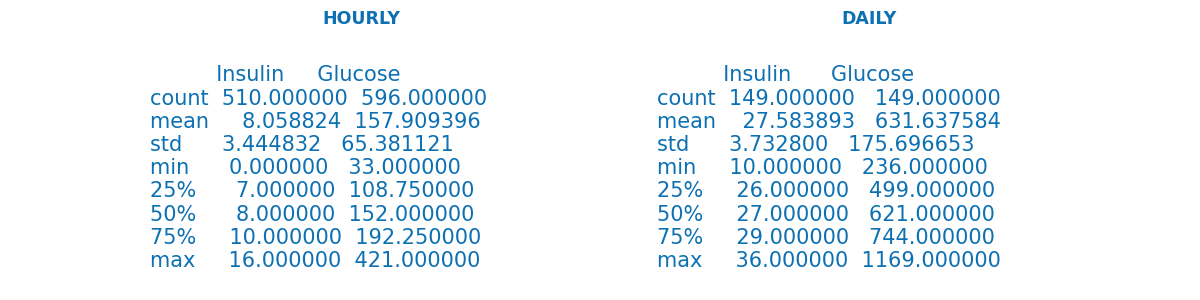
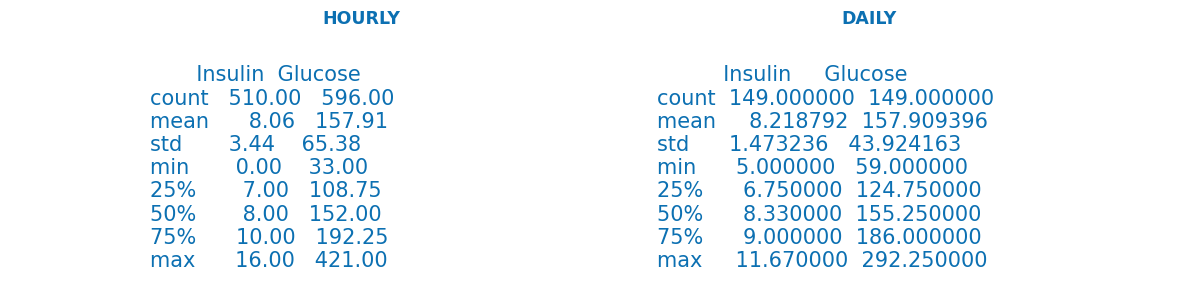
Rerun data distribution for both the datasets

diff --git a/forecasting/data_distribution_dataset2.py b/forecasting/data_distribution_dataset2.py
@@ -5,92 +5,101 @@ from ts_functions import plot_series, HEIGHT
 import sys
 
 
-def data_distribution(filename, dataset, index_col, na_values, class_column):
+def data_distribution(filename, dataset, index_col, target, class_column):
     data = read_csv(filename, index_col=index_col, sep=',', decimal='.', parse_dates=True, infer_datetime_format=True)
 
     # Weekly
     index = data.index.to_period('W')
-    weekly_df = data.copy().groupby(index).sum()
+    weekly_df = data.copy().groupby(index).mean().round(2)
     weekly_df[index_col] = index.drop_duplicates().to_timestamp()
     weekly_df.set_index(index_col, drop=True, inplace=True)
 
     # Monthly
     index = data.index.to_period('M')
-    monthly_df = data.copy().groupby(index).sum()
+    monthly_df = data.copy().groupby(index).mean().round(2)
     monthly_df[index_col] = index.drop_duplicates().to_timestamp()
     monthly_df.set_index(index_col, drop=True, inplace=True)
+
+    # file = "drought.forecasting_dataset_monthly_df.csv"
+    # output_location = 'data/forecasting/datasets_for_further_analysis/'+dataset+'/'+file
+    # monthly_df.to_csv(f'{output_location}', index=True)
 
     # Daily - data
     _, axs = subplots(1, 3, figsize=(2*HEIGHT, HEIGHT/2))
     axs[0].grid(False)
     axs[0].set_axis_off()
     axs[0].set_title('DAILY', fontweight="bold")
-    axs[0].text(0, 0, str(data.describe()))
+    axs[0].text(0, 0, str(data[target].describe().round(2)))
 
     axs[1].grid(False)
     axs[1].set_axis_off()
     axs[1].set_title('WEEKLY', fontweight="bold")
-    axs[1].text(0, 0, str(weekly_df.describe()))
+    axs[1].text(0, 0, str(weekly_df[target].describe().round(2)))
 
     axs[2].grid(False)
     axs[2].set_axis_off()
     axs[2].set_title('MONTHLY', fontweight="bold")
-    axs[2].text(0, 0, str(monthly_df.describe()))
+    axs[2].text(0, 0, str(monthly_df[target].describe().round(2)))
 
     image_location = 'images/data_distribution/' + dataset
     savefig(image_location+'/5-NumberSummary_'+dataset+'.png')
     # show()
 
-    box_plot_most_atomic(data, dataset)
+    box_plot_most_atomic(data, dataset, index_col, target)
 
-    variables_distribution_plot(data, dataset)
+    variables_distribution_plot(data, dataset, target)
 
 
-def box_plot_most_atomic(data, dataset):
+def box_plot_most_atomic(data, dataset, index_col, target):
     _, axs = subplots(1, figsize=(2 * HEIGHT, HEIGHT))
     axs.set_title('DAILY', fontweight="bold")
+    data = data.drop(["PRECTOT", "PS", "T2M", "T2MDEW", "T2MWET", "TS"], axis="columns")
     data.boxplot(ax=axs)
     image_location = 'images/data_distribution/' + dataset
     savefig(image_location + '/boxplot_' + dataset + '.png')
     # show()
 
 
-def variables_distribution_plot(data, dataset):
+def variables_distribution_plot(data, dataset, target):
+    data = data.drop(["PRECTOT", "PS", "T2M", "T2MDEW", "T2MWET", "TS"], axis="columns")
+
     bins = (10, 25, 50)
     _, axs = subplots(1, len(bins), figsize=(len(bins) * HEIGHT, HEIGHT))
 
     # Daily data histogram
     for j in range(len(bins)):
         axs[j].set_title('Histogram for daily records %d bins' % bins[j])
-        axs[j].set_xlabel('consumption')
-        axs[j].set_ylabel('Nr records')
-        axs[j].hist(data.values, bins=bins[j])
+        axs[j].set_xlabel('QV2M')
+        axs[j].set_ylabel('g/kg')
+        axs[j].hist(data[target].values, bins=bins[j])
     image_location = 'images/data_distribution/' + dataset
     savefig(image_location+'/histogram_daily_'+dataset+'.png')
 
+    bins = (5, 10, 15)
     # Weekly data histogram
     index = data.index.to_period('W')
     weekly_df = data.copy().groupby(index).sum()
     for j in range(len(bins)):
         axs[j].set_title('Histogram for weekly records %d bins' % bins[j])
-        axs[j].set_xlabel('consumption')
-        axs[j].set_ylabel('Nr records')
-        axs[j].hist(weekly_df.values, bins=bins[j])
+        axs[j].set_xlabel('QV2M')
+        axs[j].set_ylabel('g/kg')
+        axs[j].hist(weekly_df[target].values, bins=bins[j])
     image_location = 'images/data_distribution/' + dataset
     savefig(image_location+'/histogram_weekly_'+dataset+'.png')
 
+    bins = (5, 10, 15)
     # Monthly data histogram
     index = data.index.to_period('M')
-    weekly_df = data.copy().groupby(index).sum()
+    monthly_df = data.copy().groupby(index).sum()
     for j in range(len(bins)):
         axs[j].set_title('Histogram for monthly records %d bins' % bins[j])
-        axs[j].set_xlabel('consumption')
-        axs[j].set_ylabel('Nr records')
-        axs[j].hist(data.values, bins=bins[j])
+        axs[j].set_xlabel('QV2M')
+        axs[j].set_ylabel('g/kg')
+        axs[j].hist(monthly_df[target].values, bins=bins[j])
 
     image_location = 'images/data_distribution/' + dataset
     savefig(image_location+'/histogram_monthly_'+dataset+'.png')
     # show()
 
 
-data_distribution('data/forecasting/drought.forecasting_dataset.csv', 'dataset2', "date", "", '')
+data_distribution('data/forecasting/drought.forecasting_dataset.csv', 'dataset2', "date", "QV2M", '')

diff --git a/forecasting/data_distribution_dataset1.py b/forecasting/data_distribution_dataset1.py
@@ -5,18 +5,19 @@ from ts_functions import plot_series, HEIGHT
 import sys
 
 
-def data_distribution(filename, dataset, index_col, na_values, class_column):
+def data_distribution(filename, dataset, index_col, target, class_column):
     data = read_csv(filename, index_col=index_col, sep=',', decimal='.', parse_dates=True, infer_datetime_format=True)
 
     index = data.index.to_period('D')
-    period_df = data.copy().groupby(index).sum()
+    period_df = data.copy().groupby(index).mean().round(2)
     period_df[index_col] = index.drop_duplicates().to_timestamp()
     period_df.set_index(index_col, drop=True, inplace=True)
+
     _, axs = subplots(1, 2, figsize=(2*HEIGHT, HEIGHT/2))
     axs[0].grid(False)
     axs[0].set_axis_off()
     axs[0].set_title('HOURLY', fontweight="bold")
-    axs[0].text(0, 0, str(data.describe()))
+    axs[0].text(0, 0, str(data.describe().round(2)))
     axs[1].grid(False)
     axs[1].set_axis_off()
     axs[1].set_title('DAILY', fontweight="bold")
@@ -28,16 +29,22 @@ def data_distribution(filename, dataset, index_col, na_values, class_column):
     _, axs = subplots(1, figsize=(2*HEIGHT, HEIGHT))
     axs.set_title('HOURLY', fontweight="bold")
 
+    box_plot_most_atomic(data, dataset, index_col, target)
+    variables_distribution_plot(data, dataset, index_col)
+
+def box_plot_most_atomic(data, dataset, index_col, target):
+    _, axs = subplots(1, figsize=(2 * HEIGHT, HEIGHT))
+    axs.set_title('DAILY', fontweight="bold")
+    data = data.drop("Insulin", axis="columns")
     data.boxplot(ax=axs)
-    # period_df.boxplot(ax=axs[1])
     image_location = 'images/data_distribution/' + dataset
-    savefig(image_location+'/boxplot_'+dataset+'.png')
+    savefig(image_location + '/boxplot_' + dataset + '.png')
     # show()
 
-    variables_distribution_plot(data, dataset)
 
+def variables_distribution_plot(data, dataset, index_col):
+    data = data.drop("Insulin", axis="columns")
 
-def variables_distribution_plot(data, dataset):
     bins = (10, 25, 50)
     _, axs = subplots(1, len(bins), figsize=(len(bins) * HEIGHT, HEIGHT))
 
@@ -52,9 +59,12 @@ def variables_distribution_plot(data, dataset):
 
     # Daily data histogram
     index = data.index.to_period('D')
-    period_df = data.copy().groupby(index).sum()
+    period_df = data.copy().groupby(index).mean().round(2)
+    period_df[index_col] = index.drop_duplicates().to_timestamp()
+    period_df.set_index(index_col, drop=True, inplace=True)
+
     for j in range(len(bins)):
-        axs[j].set_title('Histogram for hourly values %d bins' % bins[j])
+        axs[j].set_title('Histogram for daily values %d bins' % bins[j])
         axs[j].set_xlabel('consumption')
         axs[j].set_ylabel('Nr records')
         axs[j].hist(period_df.values, bins=bins[j])
@@ -63,9 +73,11 @@ def variables_distribution_plot(data, dataset):
 
     # Weekly data histogram
     index = data.index.to_period('W')
-    period_df = data.copy().groupby(index).sum()
+    period_df = data.copy().groupby(index).mean().round(2)
+    period_df[index_col] = index.drop_duplicates().to_timestamp()
+    period_df.set_index(index_col, drop=True, inplace=True)
     for j in range(len(bins)):
-        axs[j].set_title('Histogram for hourly values %d bins' % bins[j])
+        axs[j].set_title('Histogram for weekly values %d bins' % bins[j])
         axs[j].set_xlabel('consumption')
         axs[j].set_ylabel('Nr records')
         axs[j].hist(period_df.values, bins=bins[j])
@@ -75,4 +87,4 @@ def variables_distribution_plot(data, dataset):
     # show()
 
 
-data_distribution('data/forecasting/glucose.csv', 'dataset1', "Date", "", '')
+data_distribution('data/forecasting/glucose.csv', 'dataset1', "Date", "glucose", '')
